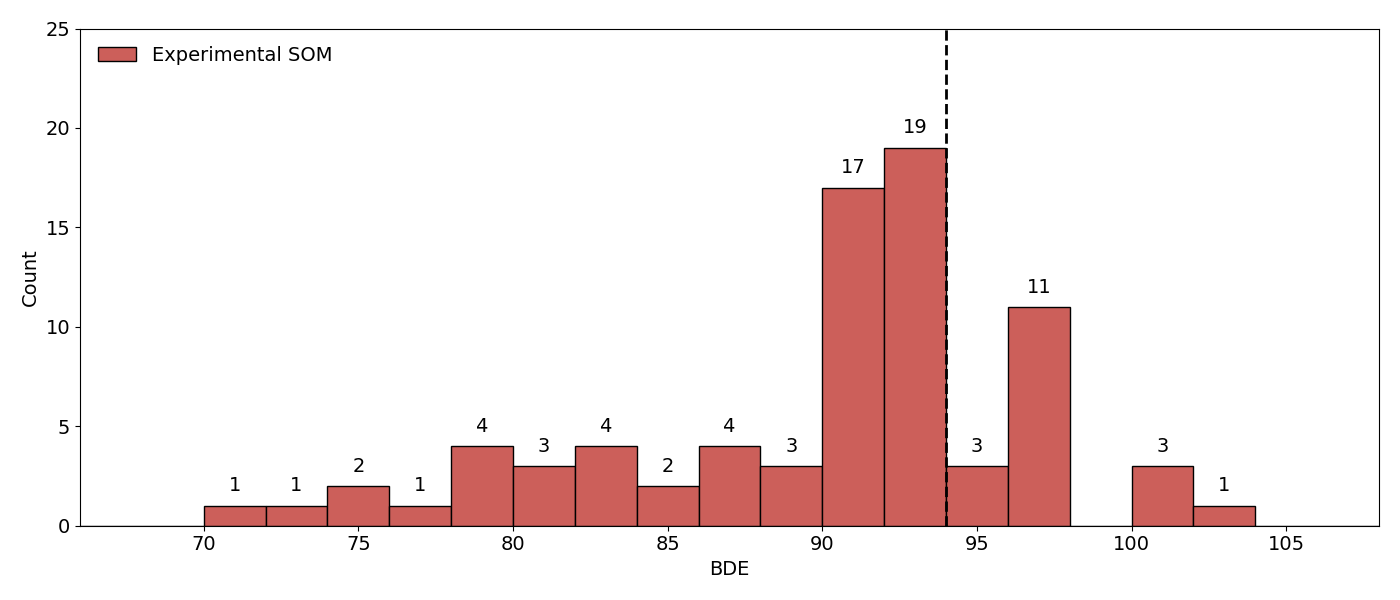
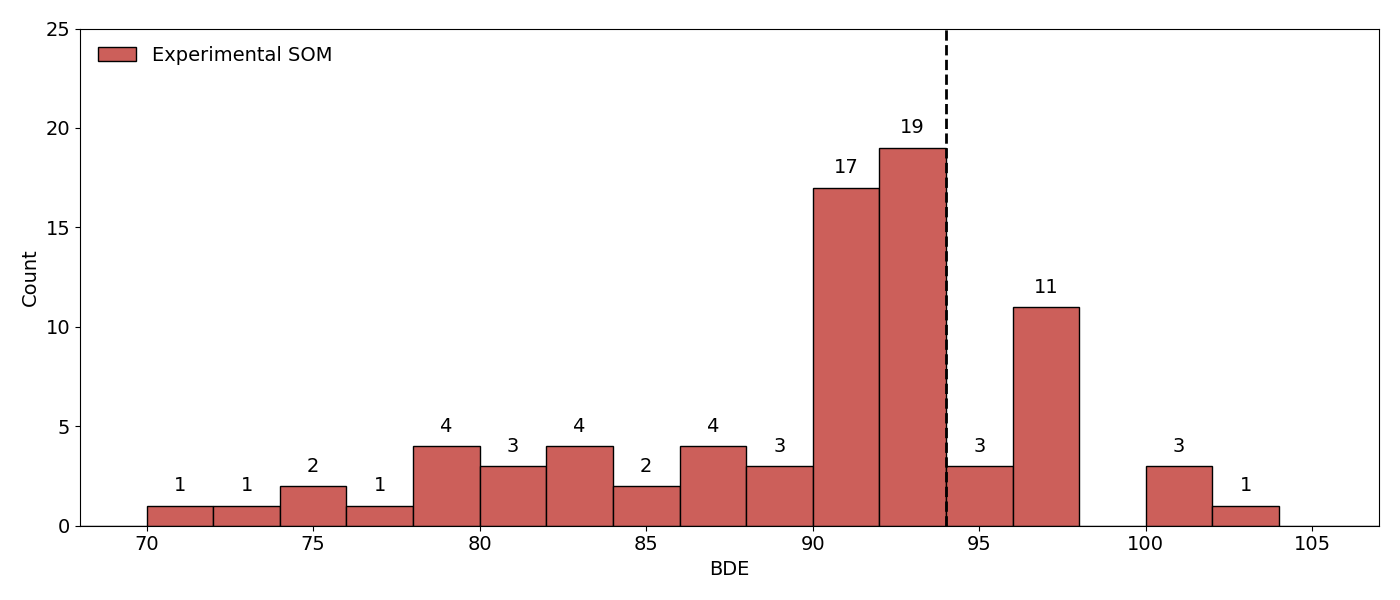
checkpoint

diff --git a/04_statistics/gen_1/03_sasa_distribution.py b/04_statistics/gen_1/03_sasa_distribution.py
@@ -44,46 +44,30 @@ fig, ax = plt.subplots(figsize=(14, 6))
 
 # Plot stacked histograms for SOM and Non-SOM
 n, bins, patches = ax.hist(
-    [som_df["sasa_hydrogen_maestro"], non_som_df["sasa_hydrogen_maestro"]],
+    som_df["sasa_hydrogen_maestro"],
     bins=bins,
-    label=["Experimental SOM", "Experimental Non SOM"],
-    color=["#CC5F5A", "#82ABA3"],
+    label=["Experimental SOM"],
+    color=["#CC5F5A"],
     edgecolor="black",
     stacked=True,
 )
 
 # Annotate each bar with the count
-for i in range(len(patches)):
-    for j in range(len(patches[i])):
-        height = patches[i][j].get_height()
-        if height > 0:  # Only annotate if the height is greater than 0
-            if i == 0:  # SOM part
-                ax.annotate(
-                    f"{int(height)}",
-                    xy=(
-                        patches[i][j].get_x() + patches[i][j].get_width() / 2,
-                        height / 2,
-                    ),
-                    xytext=(0, 0),  # No vertical offset
-                    textcoords="offset points",
-                    ha="center",
-                    va="center",
-                )
-            else:  # Non-SOM part
-                som_height = patches[0][j].get_height()
-                ax.annotate(
-                    f"{int(height)}",
-                    xy=(
-                        patches[i][j].get_x() + patches[i][j].get_width() / 2,
-                        som_height + height,
-                    ),
-                    xytext=(0, 3),  # 3 points vertical offset
-                    textcoords="offset points",
-                    ha="center",
-                    va="bottom",
-                    color="#82ABA3",
-                )
-
+for patch in patches:
+    height = patch.get_height()
+    if height > 0:  # Only annotate if the height is greater than 0
+        ax.annotate(
+            f"{int(height)}",
+            xy=(
+                patch.get_x() + patch.get_width() / 2,
+                height + 1,
+            ),
+            xytext=(0, 0),  # No vertical offset
+            textcoords="offset points",
+            ha="center",
+            va="center",
+        )
+    
 # Set labels and legend
 ax.set_xlabel("SASA")
 ax.set_ylabel("Count")

diff --git a/04_statistics/gen_1/02_relative_ir_distribution.py b/04_statistics/gen_1/02_relative_ir_distribution.py
@@ -42,46 +42,29 @@ fig, ax = plt.subplots(figsize=(14, 6))
 
 # Plot stacked histograms for SOM and Non-SOM
 n, bins, patches = ax.hist(
-    [som_df["relative_ir"], non_som_df["relative_ir"]],
+    som_df["relative_ir"],
     bins=bins,
-    label=["Experimental SOM", "Experimental Non SOM"],
-    color=["#CC5F5A", "#82ABA3"],
+    label=["Experimental SOM"],
+    color=["#CC5F5A"],
     edgecolor="black",
     stacked=True,
 )
 
 # Annotate the bars with counts
-for i in range(len(patches)):
-    for j in range(len(patches[i])):
-        height = patches[i][j].get_height()
-        if height > 0:  # Only annotate if the height is greater than 0
-            if i == 0:  # SOM part
-                ax.annotate(
-                    f"{int(height)}",
-                    xy=(
-                        patches[i][j].get_x() + patches[i][j].get_width() / 2,
-                        height / 2,
-                    ),
-                    xytext=(0, 0),  # No vertical offset
-                    textcoords="offset points",
-                    ha="center",
-                    va="center",
-                )
-            else:  # Non-SOM part
-                som_height = patches[0][j].get_height()
-                ax.annotate(
-                    f"{int(height)}",
-                    xy=(
-                        patches[i][j].get_x() + patches[i][j].get_width() / 2,
-                        som_height + height,
-                    ),
-                    xytext=(0, 3),  # 3 points vertical offset
-                    textcoords="offset points",
-                    ha="center",
-                    va="bottom",
-                    color="#82ABA3",
-                )
-
+for patch in patches:
+    height = patch.get_height()
+    if height > 0:  # Only annotate if the height is greater than 0
+        ax.annotate(
+            f"{int(height)}",
+            xy=(
+                patch.get_x() + patch.get_width() / 2,
+                height + 1,
+            ),
+            xytext=(0, 0),  # No vertical offset
+            textcoords="offset points",
+            ha="center",
+            va="center",
+        )
 
 # Set labels and legend
 ax.set_xlabel("Relative Intrinsic Reactivity")

diff --git a/04_statistics/gen_1/01_bde_distribution.py b/04_statistics/gen_1/01_bde_distribution.py
@@ -70,7 +70,7 @@ ax.set_ylabel("Count")
 
 # Add a vertical dash line at x=94
 ax.axvline(x=94, color="black", linestyle="--", linewidth=2)
-ax.set_xlim(66, 108)
+ax.set_xlim(68, 107)
 ax.set_ylim(0, 25)
 ax.legend(frameon=False, loc="upper left")
 
